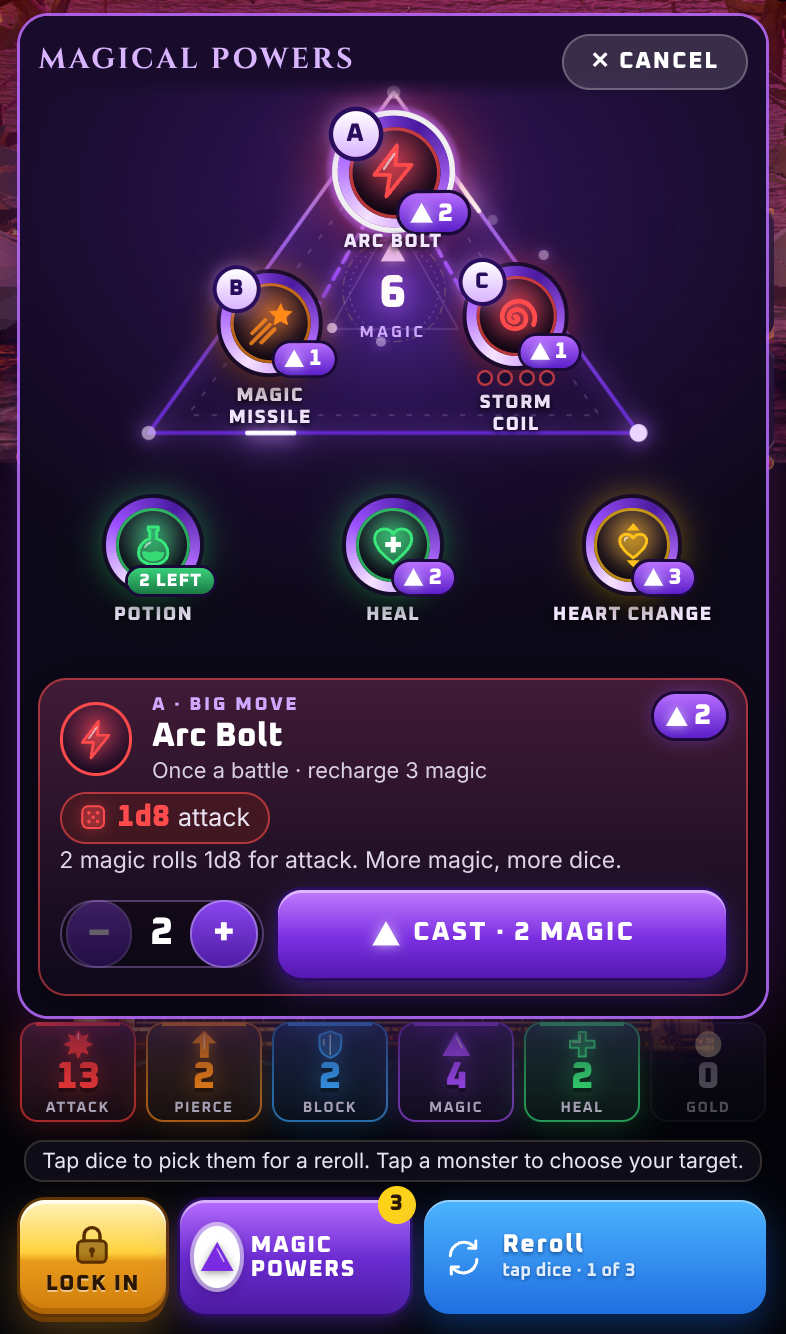
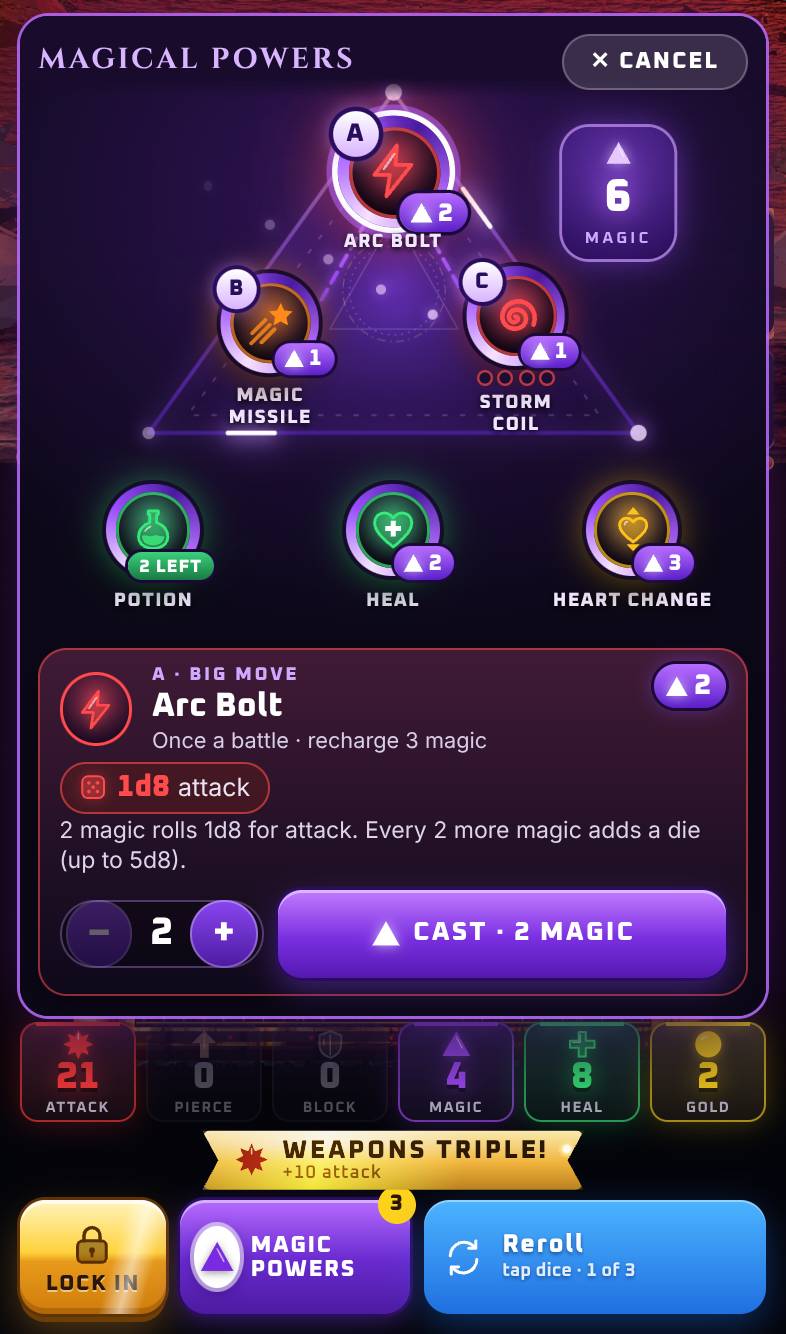
Magic powers: the magic count moves to a badge right of the triangle
Claude-Session: https://claude.ai/code/session_01XrkTJtaYv6Q75HHLppGZE7

diff --git a/index.html b/index.html
@@ -5,7 +5,7 @@
   <meta name="viewport" content="width=device-width, initial-scale=1, viewport-fit=cover">
   <meta name="theme-color" content="#04060d">
   <title>Quest Dice</title>
-  <script type="importmap">{"imports":{"three":"./vendor/three/build/three.module.js","three/addons/":"./vendor/three/examples/jsm/","./js/auction.js":"./js/auction.js?v=20261011p","./js/audio.js":"./js/audio.js?v=20261011p","./js/cloud.js":"./js/cloud.js?v=20261011p","./js/coach.js":"./js/coach.js?v=20261011p","./js/data.js":"./js/data.js?v=20261011p","./js/die3d.js":"./js/die3d.js?v=20261011p","./js/dom.js":"./js/dom.js?v=20261011p","./js/engine.js":"./js/engine.js?v=20261011p","./js/firebase-config.js":"./js/firebase-config.js?v=20261011p","./js/fx.js":"./js/fx.js?v=20261011p","./js/g3/battle3d.js":"./js/g3/battle3d.js?v=20261011p","./js/g3/director.js":"./js/g3/director.js?v=20261011p","./js/g3/hudkit.js":"./js/g3/hudkit.js?v=20261011p","./js/g3/icons.js":"./js/g3/icons.js?v=20261011p","./js/g3/pets.js":"./js/g3/pets.js?v=20261011p","./js/g3/portrait.js":"./js/g3/portrait.js?v=20261011p","./js/g3/powers.js":"./js/g3/powers.js?v=20261011p","./js/g3/screens.js":"./js/g3/screens.js?v=20261011p","./js/g3/scrui.js":"./js/g3/scrui.js?v=20261011p","./js/g3/stubs.js":"./js/g3/stubs.js?v=20261011p","./js/g3/tutboard.js":"./js/g3/tutboard.js?v=20261011p","./js/g3/tutorial.js":"./js/g3/tutorial.js?v=20261011p","./js/g3/world.js":"./js/g3/world.js?v=20261011p","./js/gfx/actors/base.js":"./js/gfx/actors/base.js?v=20261011p","./js/gfx/actors/common.js":"./js/gfx/actors/common.js?v=20261011p","./js/gfx/actors/cultist.js":"./js/gfx/actors/cultist.js?v=20261011p","./js/gfx/actors/goblin.js":"./js/gfx/actors/goblin.js?v=20261011p","./js/gfx/actors/goblinking.js":"./js/gfx/actors/goblinking.js?v=20261011p","./js/gfx/actors/hero.js":"./js/gfx/actors/hero.js?v=20261011p","./js/gfx/actors/heroclips.js":"./js/gfx/actors/heroclips.js?v=20261011p","./js/gfx/actors/herocloth.js":"./js/gfx/actors/herocloth.js?v=20261011p","./js/gfx/actors/herokit.js":"./js/gfx/actors/herokit.js?v=20261011p","./js/gfx/actors/index.js":"./js/gfx/actors/index.js?v=20261011p","./js/gfx/actors/ogre.js":"./js/gfx/actors/ogre.js?v=20261011p","./js/gfx/actors/parts.js":"./js/gfx/actors/parts.js?v=20261011p","./js/gfx/actors/parts2.js":"./js/gfx/actors/parts2.js?v=20261011p","./js/gfx/actors/wolf.js":"./js/gfx/actors/wolf.js?v=20261011p","./js/gfx/arena.js":"./js/gfx/arena.js?v=20261011p","./js/gfx/arena/common.js":"./js/gfx/arena/common.js?v=20261011p","./js/gfx/arena/flora.js":"./js/gfx/arena/flora.js?v=20261011p","./js/gfx/arena/fx.js":"./js/gfx/arena/fx.js?v=20261011p","./js/gfx/arena/ground.js":"./js/gfx/arena/ground.js?v=20261011p","./js/gfx/arena/helpers.js":"./js/gfx/arena/helpers.js?v=20261011p","./js/gfx/arena/kit.js":"./js/gfx/arena/kit.js?v=20261011p","./js/gfx/arena/places1.js":"./js/gfx/arena/places1.js?v=20261011p","./js/gfx/arena/places2.js":"./js/gfx/arena/places2.js?v=20261011p","./js/gfx/arena/props.js":"./js/gfx/arena/props.js?v=20261011p","./js/gfx/arena/sky.js":"./js/gfx/arena/sky.js?v=20261011p","./js/gfx/arena/tex.js":"./js/gfx/arena/tex.js?v=20261011p","./js/gfx/core.js":"./js/gfx/core.js?v=20261011p","./js/gfx/demo/actor.js":"./js/gfx/demo/actor.js?v=20261011p","./js/gfx/demo/arena.js":"./js/gfx/demo/arena.js?v=20261011p","./js/gfx/demo/dicegallery.js":"./js/gfx/demo/dicegallery.js?v=20261011p","./js/gfx/demo/dicelab.js":"./js/gfx/demo/dicelab.js?v=20261011p","./js/gfx/demo/materials.js":"./js/gfx/demo/materials.js?v=20261011p","./js/gfx/demo/tray.js":"./js/gfx/demo/tray.js?v=20261011p","./js/gfx/demo/vfx.js":"./js/gfx/demo/vfx.js?v=20261011p","./js/gfx/demo/weapons.js":"./js/gfx/demo/weapons.js?v=20261011p","./js/gfx/dice/art.js":"./js/gfx/dice/art.js?v=20261011p","./js/gfx/dice/dice.js":"./js/gfx/dice/dice.js?v=20261011p","./js/gfx/dice/faces.js":"./js/gfx/dice/faces.js?v=20261011p","./js/gfx/dice/fx.js":"./js/gfx/dice/fx.js?v=20261011p","./js/gfx/dice/poly.js":"./js/gfx/dice/poly.js?v=20261011p","./js/gfx/dice/roll.js":"./js/gfx/dice/roll.js?v=20261011p","./js/gfx/dice/tray.js":"./js/gfx/dice/tray.js?v=20261011p","./js/gfx/env.js":"./js/gfx/env.js?v=20261011p","./js/gfx/mats.js":"./js/gfx/mats.js?v=20261011p","./js/gfx/noise.js":"./js/gfx/noise.js?v=20261011p","./js/gfx/particles.js":"./js/gfx/particles.js?v=20261011p","./js/gfx/post.js":"./js/gfx/post.js?v=20261011p","./js/gfx/rig.js":"./js/gfx/rig.js?v=20261011p","./js/gfx/tex.js":"./js/gfx/tex.js?v=20261011p","./js/gfx/util.js":"./js/gfx/util.js?v=20261011p","./js/gfx/vfx.js":"./js/gfx/vfx.js?v=20261011p","./js/gfx/vfx/quads.js":"./js/gfx/vfx/quads.js?v=20261011p","./js/gfx/vfx/shaders.js":"./js/gfx/vfx/shaders.js?v=20261011p","./js/gfx/vfx/strips.js":"./js/gfx/vfx/strips.js?v=20261011p","./js/gfx/vfx/text.js":"./js/gfx/vfx/text.js?v=20261011p","./js/gfx/vfx/textures.js":"./js/gfx/vfx/textures.js?v=20261011p","./js/gfx/weapons.js":"./js/gfx/weapons.js?v=20261011p","./js/main.js":"./js/main.js?v=20261011p","./js/mat.js":"./js/mat.js?v=20261011p","./js/net.js":"./js/net.js?v=20261011p","./js/pack.js":"./js/pack.js?v=20261011p","./js/roads.js":"./js/roads.js?v=20261011p","./js/roomui.js":"./js/roomui.js?v=20261011p","./js/save.js":"./js/save.js?v=20261011p","./js/story.js":"./js/story.js?v=20261011p","./js/table.js":"./js/table.js?v=20261011p","./js/ui.js":"./js/ui.js?v=20261011p","./js/view.js":"./js/view.js?v=20261011p"}}</script>
+  <script type="importmap">{"imports":{"three":"./vendor/three/build/three.module.js","three/addons/":"./vendor/three/examples/jsm/","./js/auction.js":"./js/auction.js?v=20261011q","./js/audio.js":"./js/audio.js?v=20261011q","./js/cloud.js":"./js/cloud.js?v=20261011q","./js/coach.js":"./js/coach.js?v=20261011q","./js/data.js":"./js/data.js?v=20261011q","./js/die3d.js":"./js/die3d.js?v=20261011q","./js/dom.js":"./js/dom.js?v=20261011q","./js/engine.js":"./js/engine.js?v=20261011q","./js/firebase-config.js":"./js/firebase-config.js?v=20261011q","./js/fx.js":"./js/fx.js?v=20261011q","./js/g3/battle3d.js":"./js/g3/battle3d.js?v=20261011q","./js/g3/director.js":"./js/g3/director.js?v=20261011q","./js/g3/hudkit.js":"./js/g3/hudkit.js?v=20261011q","./js/g3/icons.js":"./js/g3/icons.js?v=20261011q","./js/g3/pets.js":"./js/g3/pets.js?v=20261011q","./js/g3/portrait.js":"./js/g3/portrait.js?v=20261011q","./js/g3/powers.js":"./js/g3/powers.js?v=20261011q","./js/g3/screens.js":"./js/g3/screens.js?v=20261011q","./js/g3/scrui.js":"./js/g3/scrui.js?v=20261011q","./js/g3/stubs.js":"./js/g3/stubs.js?v=20261011q","./js/g3/tutboard.js":"./js/g3/tutboard.js?v=20261011q","./js/g3/tutorial.js":"./js/g3/tutorial.js?v=20261011q","./js/g3/world.js":"./js/g3/world.js?v=20261011q","./js/gfx/actors/base.js":"./js/gfx/actors/base.js?v=20261011q","./js/gfx/actors/common.js":"./js/gfx/actors/common.js?v=20261011q","./js/gfx/actors/cultist.js":"./js/gfx/actors/cultist.js?v=20261011q","./js/gfx/actors/goblin.js":"./js/gfx/actors/goblin.js?v=20261011q","./js/gfx/actors/goblinking.js":"./js/gfx/actors/goblinking.js?v=20261011q","./js/gfx/actors/hero.js":"./js/gfx/actors/hero.js?v=20261011q","./js/gfx/actors/heroclips.js":"./js/gfx/actors/heroclips.js?v=20261011q","./js/gfx/actors/herocloth.js":"./js/gfx/actors/herocloth.js?v=20261011q","./js/gfx/actors/herokit.js":"./js/gfx/actors/herokit.js?v=20261011q","./js/gfx/actors/index.js":"./js/gfx/actors/index.js?v=20261011q","./js/gfx/actors/ogre.js":"./js/gfx/actors/ogre.js?v=20261011q","./js/gfx/actors/parts.js":"./js/gfx/actors/parts.js?v=20261011q","./js/gfx/actors/parts2.js":"./js/gfx/actors/parts2.js?v=20261011q","./js/gfx/actors/wolf.js":"./js/gfx/actors/wolf.js?v=20261011q","./js/gfx/arena.js":"./js/gfx/arena.js?v=20261011q","./js/gfx/arena/common.js":"./js/gfx/arena/common.js?v=20261011q","./js/gfx/arena/flora.js":"./js/gfx/arena/flora.js?v=20261011q","./js/gfx/arena/fx.js":"./js/gfx/arena/fx.js?v=20261011q","./js/gfx/arena/ground.js":"./js/gfx/arena/ground.js?v=20261011q","./js/gfx/arena/helpers.js":"./js/gfx/arena/helpers.js?v=20261011q","./js/gfx/arena/kit.js":"./js/gfx/arena/kit.js?v=20261011q","./js/gfx/arena/places1.js":"./js/gfx/arena/places1.js?v=20261011q","./js/gfx/arena/places2.js":"./js/gfx/arena/places2.js?v=20261011q","./js/gfx/arena/props.js":"./js/gfx/arena/props.js?v=20261011q","./js/gfx/arena/sky.js":"./js/gfx/arena/sky.js?v=20261011q","./js/gfx/arena/tex.js":"./js/gfx/arena/tex.js?v=20261011q","./js/gfx/core.js":"./js/gfx/core.js?v=20261011q","./js/gfx/demo/actor.js":"./js/gfx/demo/actor.js?v=20261011q","./js/gfx/demo/arena.js":"./js/gfx/demo/arena.js?v=20261011q","./js/gfx/demo/dicegallery.js":"./js/gfx/demo/dicegallery.js?v=20261011q","./js/gfx/demo/dicelab.js":"./js/gfx/demo/dicelab.js?v=20261011q","./js/gfx/demo/materials.js":"./js/gfx/demo/materials.js?v=20261011q","./js/gfx/demo/tray.js":"./js/gfx/demo/tray.js?v=20261011q","./js/gfx/demo/vfx.js":"./js/gfx/demo/vfx.js?v=20261011q","./js/gfx/demo/weapons.js":"./js/gfx/demo/weapons.js?v=20261011q","./js/gfx/dice/art.js":"./js/gfx/dice/art.js?v=20261011q","./js/gfx/dice/dice.js":"./js/gfx/dice/dice.js?v=20261011q","./js/gfx/dice/faces.js":"./js/gfx/dice/faces.js?v=20261011q","./js/gfx/dice/fx.js":"./js/gfx/dice/fx.js?v=20261011q","./js/gfx/dice/poly.js":"./js/gfx/dice/poly.js?v=20261011q","./js/gfx/dice/roll.js":"./js/gfx/dice/roll.js?v=20261011q","./js/gfx/dice/tray.js":"./js/gfx/dice/tray.js?v=20261011q","./js/gfx/env.js":"./js/gfx/env.js?v=20261011q","./js/gfx/mats.js":"./js/gfx/mats.js?v=20261011q","./js/gfx/noise.js":"./js/gfx/noise.js?v=20261011q","./js/gfx/particles.js":"./js/gfx/particles.js?v=20261011q","./js/gfx/post.js":"./js/gfx/post.js?v=20261011q","./js/gfx/rig.js":"./js/gfx/rig.js?v=20261011q","./js/gfx/tex.js":"./js/gfx/tex.js?v=20261011q","./js/gfx/util.js":"./js/gfx/util.js?v=20261011q","./js/gfx/vfx.js":"./js/gfx/vfx.js?v=20261011q","./js/gfx/vfx/quads.js":"./js/gfx/vfx/quads.js?v=20261011q","./js/gfx/vfx/shaders.js":"./js/gfx/vfx/shaders.js?v=20261011q","./js/gfx/vfx/strips.js":"./js/gfx/vfx/strips.js?v=20261011q","./js/gfx/vfx/text.js":"./js/gfx/vfx/text.js?v=20261011q","./js/gfx/vfx/textures.js":"./js/gfx/vfx/textures.js?v=20261011q","./js/gfx/weapons.js":"./js/gfx/weapons.js?v=20261011q","./js/main.js":"./js/main.js?v=20261011q","./js/mat.js":"./js/mat.js?v=20261011q","./js/net.js":"./js/net.js?v=20261011q","./js/pack.js":"./js/pack.js?v=20261011q","./js/roads.js":"./js/roads.js?v=20261011q","./js/roomui.js":"./js/roomui.js?v=20261011q","./js/save.js":"./js/save.js?v=20261011q","./js/story.js":"./js/story.js?v=20261011q","./js/table.js":"./js/table.js?v=20261011q","./js/ui.js":"./js/ui.js?v=20261011q","./js/view.js":"./js/view.js?v=20261011q"}}</script>
   <meta name="description" content="Roll against the dark. A fantasy dice campaign for one to six heroes, each on their own phone.">
   <meta property="og:title" content="Quest Dice">
   <meta property="og:description" content="Roll against the dark. A fantasy dice adventure: solo or with friends, free on your phone.">
@@ -23,11 +23,11 @@
   <link rel="preconnect" href="https://fonts.googleapis.com">
   <link rel="preconnect" href="https://fonts.gstatic.com" crossorigin>
   <link href="https://fonts.googleapis.com/css2?family=Archivo+Black&family=Cormorant+Garamond:ital,wght@0,500;0,600;1,500&family=Inter:wght@400;500;600;700&family=Oxanium:wght@500;600;700;800&display=swap" rel="stylesheet">
-  <link rel="stylesheet" href="css/style.css?v=20261011p">
-  <link rel="stylesheet" href="css/g3.css?v=20261011p">
-  <link rel="stylesheet" href="css/screens.css?v=20261011p">
-  <link rel="stylesheet" href="css/hud.css?v=20261011p">
-  <link rel="stylesheet" href="css/tutorial.css?v=20261011p">
+  <link rel="stylesheet" href="css/style.css?v=20261011q">
+  <link rel="stylesheet" href="css/g3.css?v=20261011q">
+  <link rel="stylesheet" href="css/screens.css?v=20261011q">
+  <link rel="stylesheet" href="css/hud.css?v=20261011q">
+  <link rel="stylesheet" href="css/tutorial.css?v=20261011q">
 </head>
 <body>
   <div class="app-frame">
@@ -44,6 +44,6 @@
   <div id="toast" role="status"></div>
   <div id="modal"></div>
   <noscript><p style="padding:2rem;color:#fff">QuestDice needs JavaScript.</p></noscript>
-  <script type="module" src="js/main.js?v=20261011p"></script>
+  <script type="module" src="js/main.js?v=20261011q"></script>
 </body>
 </html>

diff --git a/css/hud.css b/css/hud.css
@@ -926,3 +926,6 @@ body:has(.b3-sheet.open .pw-sigil) .chrome, .b3:has(.b3-sheet.open .pw-sigil) .b
 /* sparkles drift up through the big triangle */
 .pw-motes { display: block; inset: -12% -30% 0; z-index: 0; }
 @media (prefers-reduced-motion: reduce) { .pa-fill, .pa-edge, .pa-spark, .pa-node { animation: none !important; } .pa-spark { display: none; } }
+/* the magic you hold: out of the triangle's middle, a badge in the open space to its right (Dave) */
+.pw-center { left: 138%; top: 18%; z-index: 1; padding: .4rem .7rem .35rem; border-radius: .85rem; gap: .05rem;
+  background: radial-gradient(circle at 50% 30%, rgba(150, 80, 255, .55), rgba(40, 12, 90, .92)); box-shadow: 0 0 0 1.5px rgba(200, 150, 255, .7), 0 0 18px rgba(150, 80, 255, .55); }

diff --git a/docs/PLAN.md b/docs/PLAN.md
@@ -17,7 +17,7 @@ cultic or occult, and no pentagrams (skeletons, ghosts, witches, wolves, dragons
 - Every change is pushed to **both** `main` (the live site) and the working branch `claude/wizardly-newton-c0xpcq`:
   `git push origin HEAD:main && git push origin HEAD:claude/wizardly-newton-c0xpcq`. Pull before starting.
 - After any change to files the browser loads, bump the cache stamp: `node tools/stamp.mjs 20261010m` (use a newer value;
-  the last one used is **20261011p**). Phones otherwise keep old files.
+  the last one used is **20261011q**). Phones otherwise keep old files.
 - Tests: `npm test` (or `node --test test/*.test.mjs`), **115 passing**. Keep them green.
 - Balance: `sh tools/progress-all.sh 3 4 smart` (full 3-act campaigns, all classes, ~40 min; prints clears by class),
   `node tools/tension.mjs 30` (how dangerous ordinary fights feel, ~6 min), `node tools/strategy.mjs` (block vs attack study).
@@ -721,3 +721,5 @@ than 5 dice. Data: `step: 2, max: 10, maxDice: 5` on the card. Engine: scaleStep
 powerDice (shared by the sheet's stepper, its text and the cast); power levels still add a die, but the 5-dice cap holds,
 so an upgraded Arc Bolt reaches 5d8 for less magic (level 1: 8 magic). Aimed Shot (ranger) is unchanged (1 magic a die).
 Test: "Arc Bolt: 2 magic a die" in test/engine.test.mjs. Balance tools not re-run for this change.
+- 11 Oct (Dave): the magic you hold moved out of the triangle's middle into a glowing badge in the open space to its right,
+  under Cancel (CSS .pw-center override at the end of hud.css; left 138% / top 18% of the stage).
